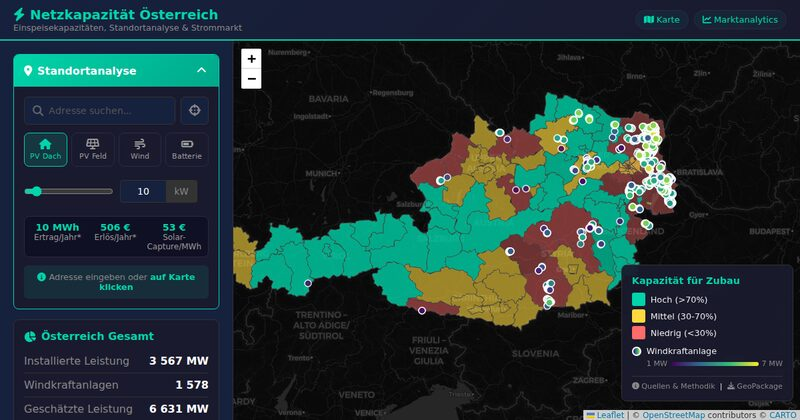
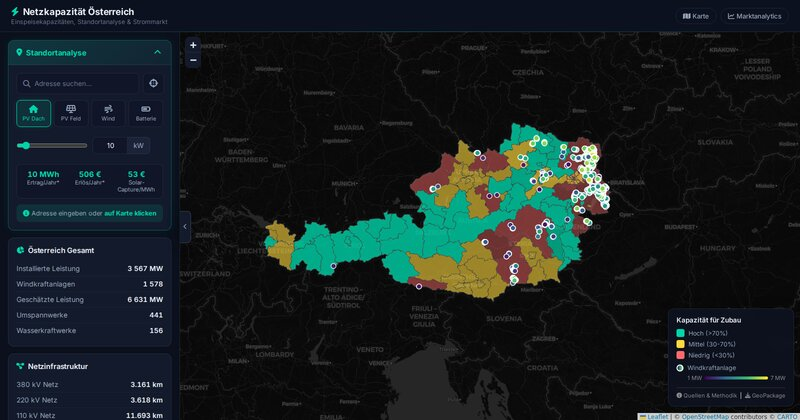
Feature Netzkapazität Österreich after groundwater, fresh thumb & texts
- austria-power.exe.xyz now featured at sort_order 4 (right after GW Power)
- New description highlighting the site analysis (PV/wind/battery at any
  address) and ENTSO-E market analytics; updated DE text and prompt
- Fresh screenshot thumbnail (cache-busted with ?v=2)
- srv.service description: drop stale Think-Tank naming

diff --git a/srv/srv.go b/srv/srv.go
@@ -374,11 +374,12 @@ func (s *Server) seedApps() error {
 		{
 			Url:           "https://austria-power.exe.xyz/",
 			Title:         "Netzkapazität Österreich",
-			Description:   "All 1,578 wind turbines with 6,631 MW capacity. Grid capacity, 441 substations, transmission lines, and feed-in potential for new wind projects.",
-			DescriptionDe: ptr("Alle 1.578 Windkraftanlagen mit 6.631 MW Leistung. Netzkapazitäten, 441 Umspannwerke, Hochspannungsleitungen und Einspeisepotenzial für neue Windprojekte."),
-			Thumbnail:     ptr("/static/thumbs/power.jpg"),
-			SortOrder:     ptr(int64(9)),
-			Prompt:        ptr("Map Austria's wind turbines and transformer stations. Use Austro Control obstacle data to get turbine heights. Analyze grid capacity for new wind installations by district, show where expansion is feasible."),
+			Description:   "Site analysis for PV, wind & battery at any address: yield, revenue, and grid feed-in capacity for expansion. Plus power market analytics from 3.5 years of ENTSO-E data.",
+			DescriptionDe: ptr("Standortanalyse für PV, Wind & Batterie an jeder Adresse: Ertrag, Erlös und Netzkapazität für Zubau. Dazu Strommarkt-Analytics aus 3,5 Jahren ENTSO-E-Daten."),
+			Thumbnail:     ptr("/static/thumbs/power.jpg?v=2"),
+			SortOrder:     ptr(int64(4)),
+			Featured:      1,
+			Prompt:        ptr("Map Austria's grid capacity for renewables: wind turbines from Austro Control obstacle data, substations and lines from OSM/APG. Add a site analysis tool — pick any address, choose rooftop PV, PV field, wind or battery, get expected yield, revenue and solar capture rate. Include power market analytics from ENTSO-E day-ahead prices showing negative price hours."),
 		},
 		{
 			Url:           "https://farm-subsidies-austria.exe.xyz/",